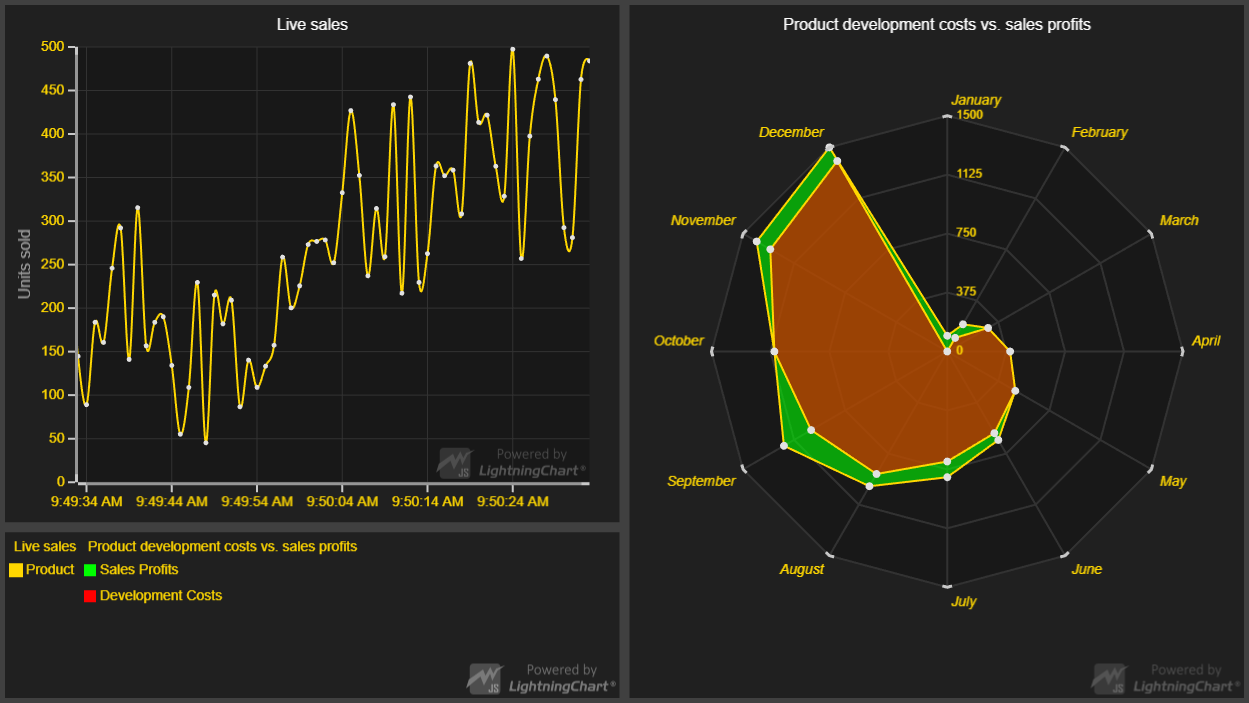
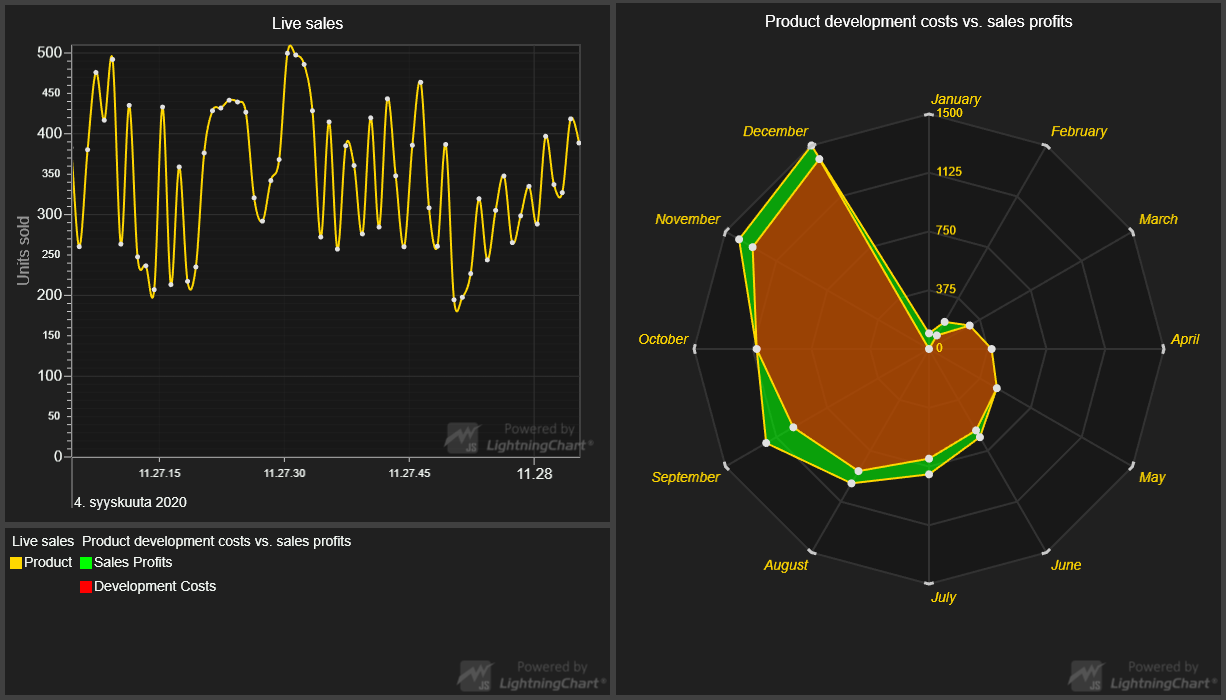
LCJS 2.0.0

diff --git a/src/index.js b/src/index.js
@@ -11,7 +11,8 @@ const {
     AxisScrollStrategies,
     PointShape,
     SolidFill,
-    AxisTickStrategies
+    AxisTickStrategies,
+    Themes
 } = lcjs
 
 const colors = [ColorRGBA(0, 255, 0, 0), ColorRGBA(255, 0, 0, 0)]
@@ -24,6 +25,7 @@ const {
 
 // Create Dashboard and stand-alone LegendBox.
 const db = lightningChart().Dashboard({
+    // theme: Themes.dark 
     numberOfRows: 2,
     numberOfColumns: 2
 })
@@ -45,12 +47,12 @@ const legend = db.createLegendBoxPanel({
         columnIndex: 0,
         rowIndex: 0,
         columnSpan: 1,
-        rowSpan: 1,
-        chartXYOptions: { defaultAxisXTickStrategy: AxisTickStrategies.DateTime(dateOrigin) }
+        rowSpan: 1
     })
         .setTitle('Live sales')
         .setPadding({ right: 30 })
         .setMouseInteractionsWhileScrolling(true)
+
     const series = chart.addSplineSeries({ pointShape: PointShape.Circle })
         .setName('Product')
         .setStrokeStyle((strokeStyle) => strokeStyle.setThickness(2))
@@ -63,8 +65,12 @@ const legend = db.createLegendBoxPanel({
         )
 
     chart.getDefaultAxisX()
-        .setInterval(-60 * 1000, 0)
+        .setInterval(-61 * 1000, 0)
         .setScrollStrategy(AxisScrollStrategies.progressive)
+        .setTickStrategy(
+            AxisTickStrategies.DateTime,
+            (tickStrategy) => tickStrategy.setDateOrigin(dateOrigin)
+        )
     chart.getDefaultAxisY()
         .setTitle('Units sold')
         .setInterval(0, 500)

diff --git a/README.md b/README.md
@@ -85,14 +85,14 @@ dashboard.setColumnWidth( 1, 3 )
 
 ## API Links
 
-* Dashboard: [Dashboard]
-* Legend box panel: [UILegendBoxPanel]
-* XY cartesian chart: [ChartXY]
-* Spline series: [SplineSeries]
-* Scroll strategies: [AxisScrollStrategies]
-* Spider chart: [SpiderChart]
-* RGBA color factory: [ColorRGBA]
-* UI position origins: [UIOrigins]
+* [Dashboard]
+* [Legend box panel]
+* [XY cartesian chart]
+* [Spline series]
+* [Scroll strategies]
+* [Spider chart]
+* [RGBA color factory]
+* [UI position origins]
 
 
 ## Support
@@ -116,12 +116,12 @@ Direct developer email support can be purchased through a [Support Plan][4] or b
 © Arction Ltd 2009-2020. All rights reserved.
 
 
-[Dashboard]: https://www.arction.com/lightningchart-js-api-documentation/v1.3.0/classes/dashboard.html
-[UILegendBoxPanel]: https://www.arction.com/lightningchart-js-api-documentation/v1.3.0/classes/uilegendboxpanel.html
-[ChartXY]: https://www.arction.com/lightningchart-js-api-documentation/v1.3.0/classes/chartxy.html
-[SplineSeries]: https://www.arction.com/lightningchart-js-api-documentation/v1.3.0/classes/splineseries.html
-[AxisScrollStrategies]: https://www.arction.com/lightningchart-js-api-documentation/v1.3.0/globals.html#axisscrollstrategies
-[SpiderChart]: https://www.arction.com/lightningchart-js-api-documentation/v1.3.0/classes/spiderchart.html
-[ColorRGBA]: https://www.arction.com/lightningchart-js-api-documentation/v1.3.0/globals.html#colorrgba
-[UIOrigins]: https://www.arction.com/lightningchart-js-api-documentation/v1.3.0/globals.html#uiorigins
+[Dashboard]: https://www.arction.com/lightningchart-js-api-documentation/v2.0.0/classes/dashboard.html
+[Legend box panel]: https://www.arction.com/lightningchart-js-api-documentation/v2.0.0/classes/uilegendboxpanel.html
+[XY cartesian chart]: https://www.arction.com/lightningchart-js-api-documentation/v2.0.0/classes/chartxy.html
+[Spline series]: https://www.arction.com/lightningchart-js-api-documentation/v2.0.0/classes/splineseries.html
+[Scroll strategies]: https://www.arction.com/lightningchart-js-api-documentation/v2.0.0/globals.html#axisscrollstrategies
+[Spider chart]: https://www.arction.com/lightningchart-js-api-documentation/v2.0.0/classes/spiderchart.html
+[RGBA color factory]: https://www.arction.com/lightningchart-js-api-documentation/v2.0.0/globals.html#colorrgba
+[UI position origins]: https://www.arction.com/lightningchart-js-api-documentation/v2.0.0/globals.html#uiorigins
 
